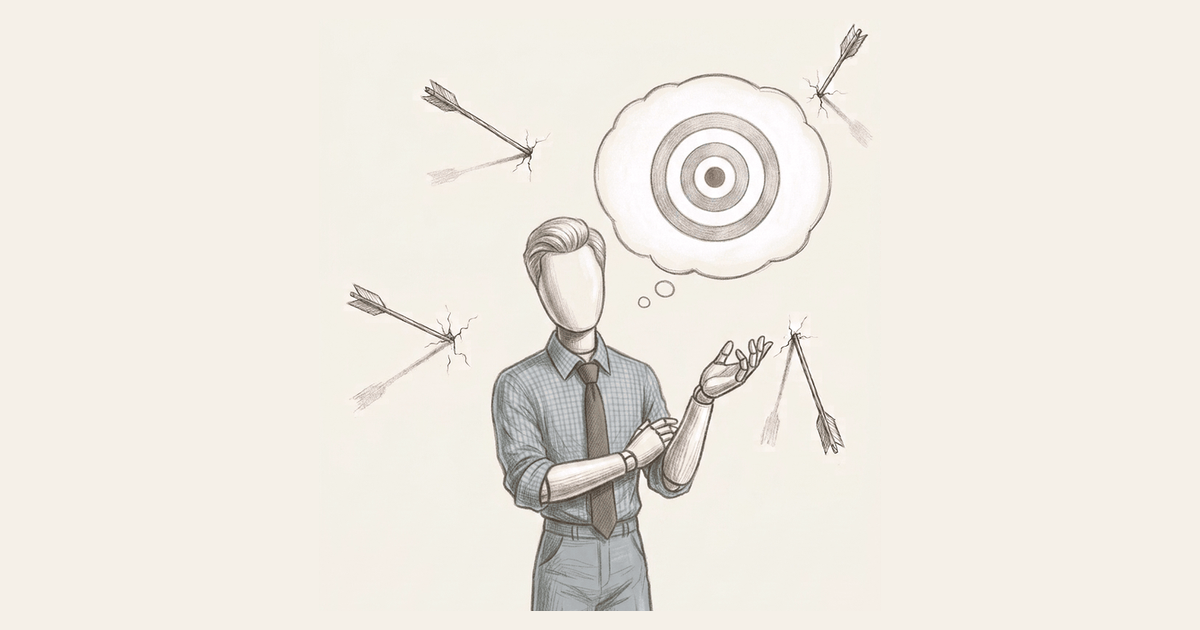
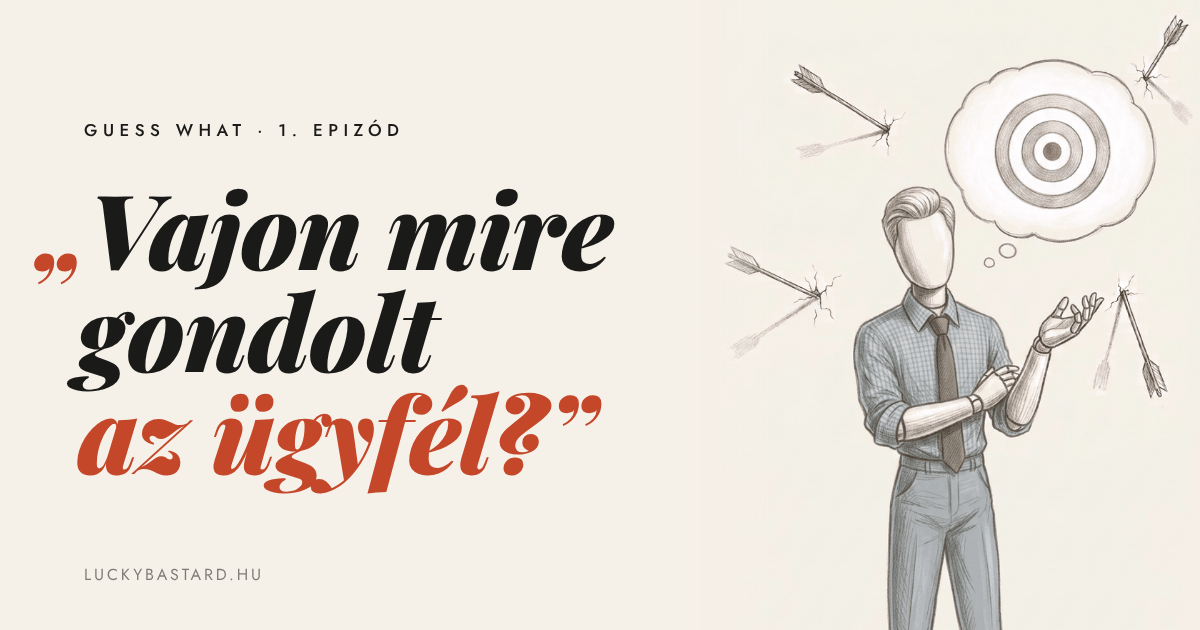
Guess what: új LinkedIn-előnézet
- og.png: "Vajon mire gondolt az ügyfél?" címsorral
- og/twitter title: "Vajon mire gondolt az ügyfél? Játssz, ha mersz."
- leírásból kivéve a "gyors is voltál"

Claude-Session: https://claude.ai/code/session_019mFdNEFyvitrrGNNikQt52

diff --git a/guess-what/index.html b/guess-what/index.html
@@ -9,15 +9,15 @@
 <!-- ========== OPEN GRAPH - a LinkedIn preview ezen áll vagy bukik ========== -->
 <meta property="og:type" content="website">
 <meta property="og:url" content="https://luckybastard.hu/guess-what/">
-<meta property="og:title" content="Guess what the client was thinking">
-<meta property="og:description" content="Néha a rutin segít, néha az emberismeret, sokszor pedig a mázli. Ha egyben kimaxolod, és még gyors is voltál: vendégem vagy a kedvenc anaerób jaktejes lattédra.">
+<meta property="og:title" content="Vajon mire gondolt az ügyfél? Játssz, ha mersz.">
+<meta property="og:description" content="Néha a rutin segít, néha az emberismeret, sokszor pedig a mázli. Ha egyben kimaxolod, vendégem vagy a kedvenc anaerób jaktejes lattédra.">
 <meta property="og:image" content="https://luckybastard.hu/guess-what/assets/og.png">
 <meta property="og:image:width" content="1200">
 <meta property="og:image:height" content="630">
 <meta property="og:locale" content="hu_HU">
 <meta name="twitter:card" content="summary_large_image">
-<meta name="twitter:title" content="Guess what the client was thinking">
-<meta name="twitter:description" content="Néha a rutin segít, néha az emberismeret, sokszor pedig a mázli. Ha egyben kimaxolod, és még gyors is voltál: vendégem vagy a kedvenc anaerób jaktejes lattédra.">
+<meta name="twitter:title" content="Vajon mire gondolt az ügyfél? Játssz, ha mersz.">
+<meta name="twitter:description" content="Néha a rutin segít, néha az emberismeret, sokszor pedig a mázli. Ha egyben kimaxolod, vendégem vagy a kedvenc anaerób jaktejes lattédra.">
 <meta name="twitter:image" content="https://luckybastard.hu/guess-what/assets/og.png">
 <link rel="icon" href="assets/favicon.png">
 

diff --git a/luckybastard_portfolio/guess-what/index.html b/luckybastard_portfolio/guess-what/index.html
@@ -9,15 +9,15 @@
 <!-- ========== OPEN GRAPH - a LinkedIn preview ezen áll vagy bukik ========== -->
 <meta property="og:type" content="website">
 <meta property="og:url" content="https://luckybastard.hu/guess-what/">
-<meta property="og:title" content="Guess what the client was thinking">
-<meta property="og:description" content="Néha a rutin segít, néha az emberismeret, sokszor pedig a mázli. Ha egyben kimaxolod, és még gyors is voltál: vendégem vagy a kedvenc anaerób jaktejes lattédra.">
+<meta property="og:title" content="Vajon mire gondolt az ügyfél? Játssz, ha mersz.">
+<meta property="og:description" content="Néha a rutin segít, néha az emberismeret, sokszor pedig a mázli. Ha egyben kimaxolod, vendégem vagy a kedvenc anaerób jaktejes lattédra.">
 <meta property="og:image" content="https://luckybastard.hu/guess-what/assets/og.png">
 <meta property="og:image:width" content="1200">
 <meta property="og:image:height" content="630">
 <meta property="og:locale" content="hu_HU">
 <meta name="twitter:card" content="summary_large_image">
-<meta name="twitter:title" content="Guess what the client was thinking">
-<meta name="twitter:description" content="Néha a rutin segít, néha az emberismeret, sokszor pedig a mázli. Ha egyben kimaxolod, és még gyors is voltál: vendégem vagy a kedvenc anaerób jaktejes lattédra.">
+<meta name="twitter:title" content="Vajon mire gondolt az ügyfél? Játssz, ha mersz.">
+<meta name="twitter:description" content="Néha a rutin segít, néha az emberismeret, sokszor pedig a mázli. Ha egyben kimaxolod, vendégem vagy a kedvenc anaerób jaktejes lattédra.">
 <meta name="twitter:image" content="https://luckybastard.hu/guess-what/assets/og.png">
 <link rel="icon" href="assets/favicon.png">
 
